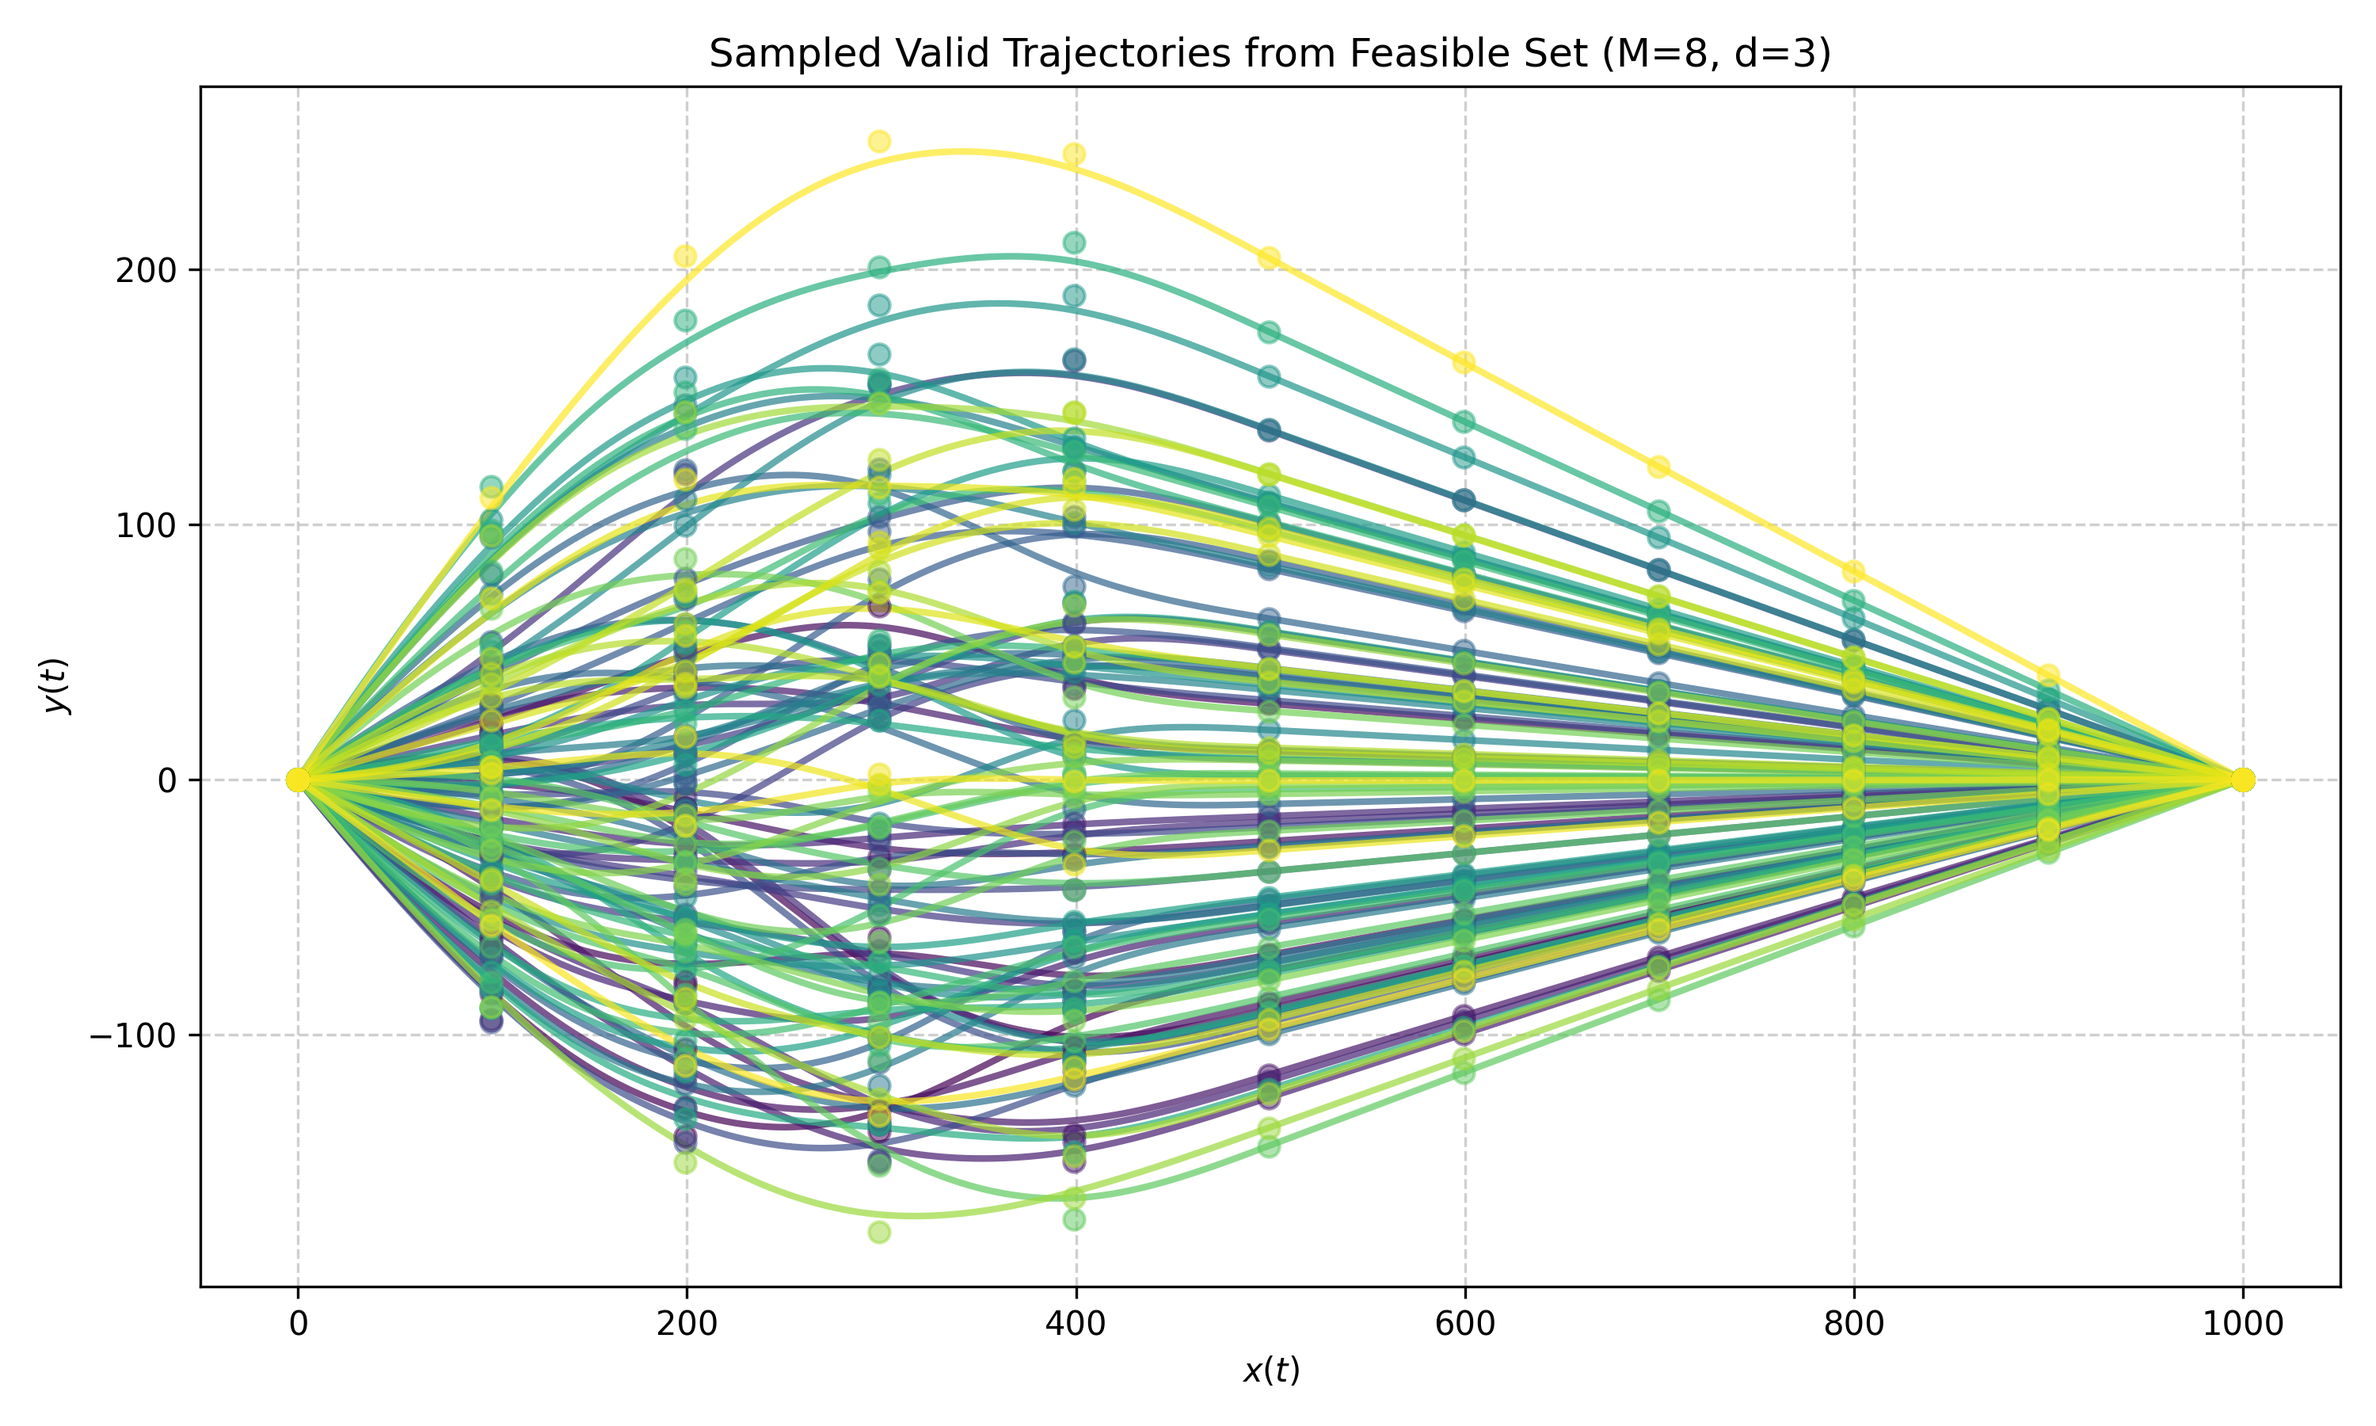
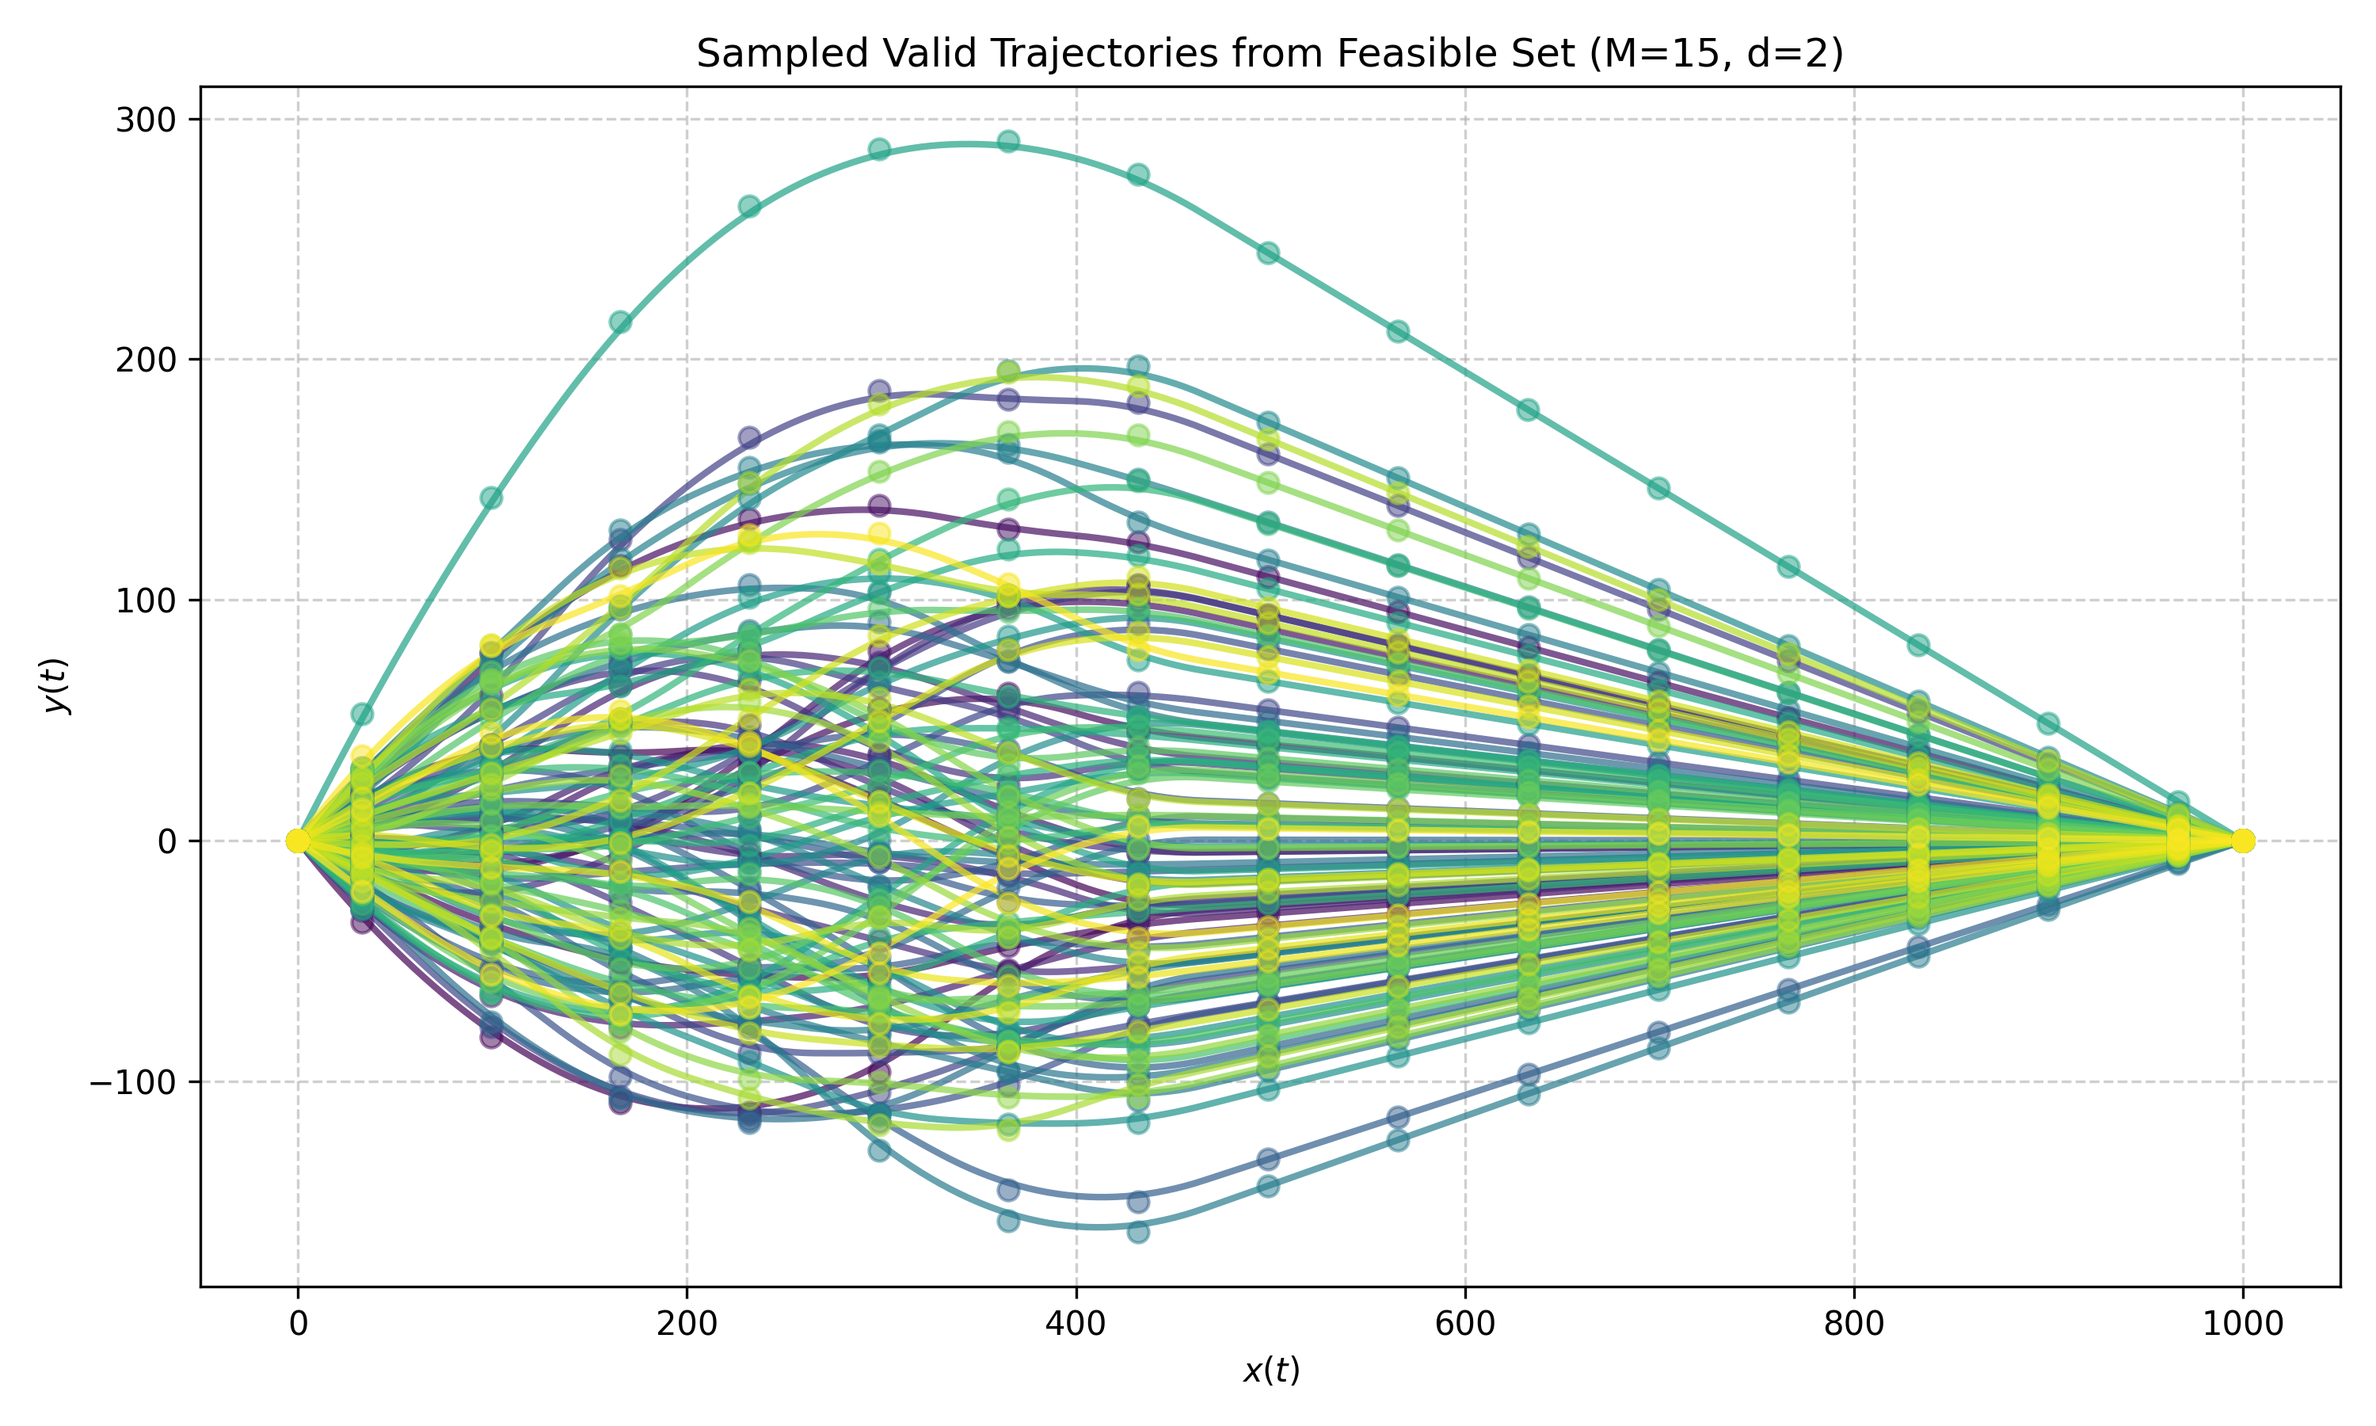
I cleaned up some code and changed the derivative to match a clamped uniform knot sequence.

diff --git a/convex_set.py b/convex_set.py
@@ -6,142 +6,17 @@ import sys
 sys.path.append('../bsplines_library/build')
 import bspline_module
 
-# -------------------------------------------------------------
-# 1. Analytical System Construction
-# -------------------------------------------------------------
-# def get_analytical_representation(M, d, a, epsilon, start, end):
-#     n = M + d
-#     N = n * n
-    
-#     # Equality Constraints: C[:, 0] == start, C[:, -1] == end
-#     A_eq = np.zeros((2 * n, N))
-#     b_eq = np.concatenate([start.ravel(), end.ravel()])
-    
-#     for row in range(n):
-#         A_eq[row, row * n] = 1.0                # First column C[:, 0]
-#         A_eq[n + row, row * n + (n - 1)] = 1.0  # Last column C[:, -1]
+def make_D_M_d(M, d):
+    first_last = [d/i for i in range(1,d)]
+    middle = [1]*(M-d+1)
+    diag_elements = first_last + middle + first_last[::-1]
+    D_bar = np.diag(diag_elements)
+    zero_row = np.zeros((1, M+d-1))
+    D_M_d = -np.block([[D_bar], [zero_row]]) + np.block([[zero_row], [D_bar]])
+    return D_M_d
 
-#     c0 = np.linalg.lstsq(A_eq, b_eq, rcond=None)[0]
-#     V = null_space(A_eq)
-    
-#     # Second-difference inequalities
-#     num_diff_cols = n - 2
-#     # num_diff_cols = n - 1
-#     # num_diff_cols = n - 3
-#     num_ineqs = n * num_diff_cols
-#     A_diff = np.zeros((num_ineqs, N))
-    
-#     idx = 0
-#     for i in range(n):
-#         for j in range(num_diff_cols):
-#             A_diff[idx, i * n + j] = 1.0
-#             A_diff[idx, i * n + (j + 1)] = -2.0
-#             A_diff[idx, i * n + (j + 2)] = 1.0
 
-#             # A_diff[idx, i * n + j] = 1.0
-#             # A_diff[idx, i * n + (j + 1)] = -1.0
-
-#             # A_diff[idx, i * n + j] = -1.0
-#             # A_diff[idx, i * n + (j + 1)] = 3.0
-#             # A_diff[idx, i * n + (j + 2)] = -3.0
-#             # A_diff[idx, i * n + (j + 3)] = 1.0
-            
-#             idx += 1
-
-#     b_diff = np.zeros(num_ineqs)
-#     for i in range(n):
-#         for j in range(num_diff_cols):
-#             # Apply larger bound if evaluating y-coordinate control points
-#             b_diff[i * num_diff_cols + j] = (
-#                 (a[0] - epsilon) if i < n // 2 else (a[1] - epsilon)
-#             )
-#     A_ub = np.vstack([A_diff, -A_diff])
-#     b_ub = np.concatenate([b_diff, b_diff])
-    
-#     A_tilde = A_ub @ V
-#     b_tilde = b_ub - A_ub @ c0
-    
-#     return c0, V, A_tilde, b_tilde
-
-# def get_analytical_representation(M, d, a, j_max, epsilon, start, end):
-#     n = M + d
-#     N = n * n
-    
-#     # -------------------------------------------------------------
-#     # 1. Equality Constraints: C[:, 0] == start, C[:, -1] == end
-#     # -------------------------------------------------------------
-#     A_eq = np.zeros((2 * n, N))
-#     b_eq = np.concatenate([start.ravel(), end.ravel()])
-    
-#     for row in range(n):
-#         A_eq[row, row * n] = 1.0                # First column C[:, 0]
-#         A_eq[n + row, row * n + (n - 1)] = 1.0  # Last column C[:, -1]
-
-#     c0 = np.linalg.lstsq(A_eq, b_eq, rcond=None)[0]
-#     V = null_space(A_eq)
-    
-#     # -------------------------------------------------------------
-#     # 2. Second-Difference Inequalities (Acceleration Limits)
-#     # -------------------------------------------------------------
-#     num_diff2_cols = n - 2
-#     num_ineqs2 = n * num_diff2_cols
-#     A_diff2 = np.zeros((num_ineqs2, N))
-    
-#     idx = 0
-#     for i in range(n):
-#         for j in range(num_diff2_cols):
-#             A_diff2[idx, i * n + j] = 1.0
-#             A_diff2[idx, i * n + (j + 1)] = -2.0
-#             A_diff2[idx, i * n + (j + 2)] = 1.0
-#             idx += 1
-
-#     b_diff2 = np.zeros(num_ineqs2)
-#     for i in range(n):
-#         for j in range(num_diff2_cols):
-#             b_diff2[i * num_diff2_cols + j] = (
-#                 (a[0] - epsilon) if i < n // 2 else (a[1] - epsilon)
-#             )
-
-#     # -------------------------------------------------------------
-#     # 3. Third-Difference Inequalities (Jerk Limits)
-#     # -------------------------------------------------------------
-#     num_diff3_cols = n - 3
-#     num_ineqs3 = n * num_diff3_cols
-#     A_diff3 = np.zeros((num_ineqs3, N))
-    
-#     idx = 0
-#     for i in range(n):
-#         for j in range(num_diff3_cols):
-#             A_diff3[idx, i * n + j] = -1.0
-#             A_diff3[idx, i * n + (j + 1)] = 3.0
-#             A_diff3[idx, i * n + (j + 2)] = -3.0
-#             A_diff3[idx, i * n + (j + 3)] = 1.0
-#             idx += 1
-
-#     b_diff3 = np.zeros(num_ineqs3)
-#     for i in range(n):
-#         for j in range(num_diff3_cols):
-#             b_diff3[i * num_diff3_cols + j] = (
-#                 (j_max[0] - epsilon) if i < n // 2 else (j_max[1] - epsilon)
-#             )
-
-#     # -------------------------------------------------------------
-#     # 4. Stack Acceleration and Jerk Constraints
-#     # -------------------------------------------------------------
-#     # Upper/lower bounds for acceleration and jerk combined
-#     A_diff = np.vstack([A_diff2, A_diff3])
-#     b_diff = np.concatenate([b_diff2, b_diff3])
-
-#     A_ub = np.vstack([A_diff, -A_diff])
-#     b_ub = np.concatenate([b_diff, b_diff])
-    
-#     # Transform to reduced basis coordinates (alpha space)
-#     A_tilde = A_ub @ V
-#     b_tilde = b_ub - A_ub @ c0
-    
-#     return c0, V, A_tilde, b_tilde
-
-def get_analytical_representation_2D(M, d, a, j_max, epsilon, start, end):
+def get_analytical_representation_2D(M, d, a, num_epsilon, epsilon, start, end):
     n = M + d
     N = 2 * n  # c_vec[:n] is X, c_vec[n:] is Y
     
@@ -167,77 +42,16 @@ def get_analytical_representation_2D(M, d, a, j_max, epsilon, start, end):
     # -------------------------------------------------------------
     num_diff2 = n - 2
     A_diff2 = np.zeros((2 * num_diff2, N))
-    b_diff2 = np.zeros(2 * num_diff2)
-    
-    # X acceleration (limit = a[0])
-    for j in range(num_diff2):
-        A_diff2[j, j:j+3] = [1.0, -2.0, 1.0]
-        b_diff2[j] = a[0] - epsilon
-
-    # Y acceleration (limit = a[1])
-    for j in range(num_diff2):
-        idx = num_diff2 + j
-        A_diff2[idx, n + j : n + j + 3] = [1.0, -2.0, 1.0]
-        b_diff2[idx] = a[1] - epsilon
-
-    # -------------------------------------------------------------
-    # 3. Jerk Constraints (Third Differences)
-    # -------------------------------------------------------------
-    num_diff3 = n - 3
-    A_diff3 = np.zeros((2 * num_diff3, N))
-    b_diff3 = np.zeros(2 * num_diff3)
-    
-    # X jerk (limit = j_max[0])
-    for j in range(num_diff3):
-        A_diff3[j, j:j+4] = [-1.0, 3.0, -3.0, 1.0]
-        b_diff3[j] = j_max[0] - epsilon
-
-    # Y jerk (limit = j_max[1])
-    for j in range(num_diff3):
-        idx = num_diff3 + j
-        A_diff3[idx, n + j : n + j + 4] = [-1.0, 3.0, -3.0, 1.0]
-        b_diff3[idx] = j_max[1] - epsilon
-
-    # -------------------------------------------------------------
-    # 4. Stack Constraints
-    # -------------------------------------------------------------
-    A_diff = np.vstack([A_diff2, A_diff3])
-    b_diff = np.concatenate([b_diff2, b_diff3])
-
-    A_ub = np.vstack([A_diff, -A_diff])
-    b_ub = np.concatenate([b_diff, b_diff])
-    
-    A_tilde = A_ub @ V
-    b_tilde = b_ub - A_ub @ c0
-    
-    return c0, V, A_tilde, b_tilde
-
-def get_analytical_representation_2D_no_jerk(M, d, a, num_epsilon, epsilon, start, end):
-    n = M + d
-    N = 2 * n  # c_vec[:n] is X, c_vec[n:] is Y
-    
-    # -------------------------------------------------------------
-    # 1. Equality Constraints: C[0, 0]=x_start, C[0, -1]=x_end, etc.
-    # -------------------------------------------------------------
-    A_eq = np.zeros((4, N))
-    b_eq = np.array([start[0], end[0], start[1], end[1]])
-    
-    # X start & end (indices 0 and n-1)
-    A_eq[0, 0] = 1.0          
-    A_eq[1, n - 1] = 1.0      
-    
-    # Y start & end (indices n and 2n-1)
-    A_eq[2, n] = 1.0          
-    A_eq[3, 2 * n - 1] = 1.0  
-
-    c0 = np.linalg.lstsq(A_eq, b_eq, rcond=None)[0]
-    V = null_space(A_eq)
-    
-    # -------------------------------------------------------------
-    # 2. Acceleration Constraints (Second Differences)
-    # -------------------------------------------------------------
-    num_diff2 = n - 2
-    A_diff2 = np.zeros((2 * num_diff2, N))
+    print(f"A_diff2 shape {A_diff2.shape}")
+    # Making it for uniform clamped control points
+    D_M_d = make_D_M_d(M, d)
+    D_M_d1 = make_D_M_d(M, d-1)
+    D_tmp = D_M_d @ D_M_d1
+    D_X = D_tmp.T
+    D_Y = D_tmp.T
+    D = np.block([[D_X, np.zeros((num_diff2, n))],
+                  [np.zeros((num_diff2, n)), D_Y],])  
+    print(f"D shape {D.shape}")
     b_diff2 = np.zeros(2 * num_diff2)
     
     # X acceleration (limit = a[0])
@@ -261,13 +75,17 @@ def get_analytical_representation_2D_no_jerk(M, d, a, num_epsilon, epsilon, star
     # 4. Stack Constraints
     # -------------------------------------------------------------
 
-    A_ub = np.vstack([A_diff2, -A_diff2])
+    # A_ub = np.vstack([A_diff2, -A_diff2])
+    A_ub = np.vstack([D, -D])
     b_ub = np.concatenate([b_diff2, b_diff2])
-    
+
+    print(f"A_ub shape {A_ub.shape},V shape {V.shape}, b_ub shape {b_ub.shape}")
     A_tilde = A_ub @ V
     b_tilde = b_ub - A_ub @ c0
     
     return c0, V, A_tilde, b_tilde
+
+
 # -------------------------------------------------------------
 # 2. Sampler: Finds random valid C matrices within the polytope
 # -------------------------------------------------------------
@@ -373,68 +191,6 @@ def sample_diverse_C_2D(c0, V, A_tilde, b_tilde, n, seed=None):
         
     return C.value
 
-def sample_hit_and_run(c0, V, A_tilde, b_tilde, n, num_samples=30, burn_in=200, seed=None):
-    if seed is not None:
-        np.random.seed(seed)
-        
-    k = V.shape[1]
-    
-    # 1. Find an initial strictly interior point using Chebyshev center
-    alpha_var = cp.Variable(k)
-    r = cp.Variable()
-    
-    # Normalize rows of A_tilde for accurate ball radius r
-    norms = np.linalg.norm(A_tilde, axis=1, keepdims=True)
-    norms[norms == 0] = 1.0
-    A_norm = A_tilde / norms
-    
-    prob = cp.Problem(cp.Maximize(r), [A_norm @ alpha_var + r <= b_tilde / norms.ravel()])
-    prob.solve()
-    
-    current_alpha = alpha_var.value.copy()
-    
-    # 2. Burn-in steps to lose initial bias
-    for _ in range(burn_in):
-        direction = np.random.randn(k)
-        direction /= np.linalg.norm(direction)
-        
-        # Calculate line-search step limits: A_tilde (alpha + t * dir) <= b_tilde
-        Ad = A_tilde @ direction
-        slack = b_tilde - A_tilde @ current_alpha
-        
-        pos_mask = Ad > 1e-9
-        neg_mask = Ad < -1e-9
-        
-        t_max = np.min(slack[pos_mask] / Ad[pos_mask]) if np.any(pos_mask) else 100.0
-        t_min = np.max(slack[neg_mask] / Ad[neg_mask]) if np.any(neg_mask) else -100.0
-        
-        if t_max > t_min:
-            t = np.random.uniform(t_min, t_max)
-            current_alpha += t * direction
-
-    # 3. Collect diverse interior samples
-    trajectories = []
-    for _ in range(num_samples):
-        direction = np.random.randn(k)
-        direction /= np.linalg.norm(direction)
-        
-        Ad = A_tilde @ direction
-        slack = b_tilde - A_tilde @ current_alpha
-        
-        pos_mask = Ad > 1e-9
-        neg_mask = Ad < -1e-9
-        
-        t_max = np.min(slack[pos_mask] / Ad[pos_mask]) if np.any(pos_mask) else 100.0
-        t_min = np.max(slack[neg_mask] / Ad[neg_mask]) if np.any(neg_mask) else -100.0
-        
-        if t_max > t_min:
-            t = np.random.uniform(t_min, t_max)
-            current_alpha += t * direction
-            
-        c_vec = c0 + V @ current_alpha
-        trajectories.append(np.vstack([c_vec[:n], c_vec[n:]]))
-        
-    return trajectories
 
 def sample_convex_combination(c0, V, A_tilde, b_tilde, n, num_vertices=6, seed=None):
     if seed is not None:
@@ -498,24 +254,17 @@ def generate_b_spline_trajectory(C, M, d, num_points=200):
 # -------------------------------------------------------------
 # 4. Plotting Setup
 # -------------------------------------------------------------
-M, d = 8, 3
+M, d = 15, 2
 n = M + d
-a = np.array([0.2, 50.])
+a = np.array([0.1, 25.])
 j_max = np.array([1, 6])
 epsilon = 0.01
-num_epsilon = 5  # Number of initial control points with tighter constraints
-
-
-# start_vec = np.ones(n) * 1000
-# start_vec[1:] = 0.0  # Start at 0 for the first state
-# end_vec = np.zeros(n)
+num_epsilon = 8  # Number of initial control points with tighter constraints
 
 start_vec = np.array([1000.0, 0.0])
 end_vec = np.array([0.0, 0.0])
 
-
-# c0, V, A_tilde, b_tilde = get_analytical_representation_2D(M, d, a, j_max, epsilon, start_vec, end_vec)
-c0, V, A_tilde, b_tilde = get_analytical_representation_2D_no_jerk(M, d, a, num_epsilon, epsilon, start_vec, end_vec)
+c0, V, A_tilde, b_tilde = get_analytical_representation_2D(M, d, a, num_epsilon, epsilon, start_vec, end_vec)
 
 # Generate several distinct valid C matrices
 num_trajectories = 100
@@ -523,14 +272,12 @@ plt.figure(figsize=(10, 6))
 
 colors = plt.cm.viridis(np.linspace(0, 1, num_trajectories))
 
-# control_matrices = sample_hit_and_run(c0, V, A_tilde, b_tilde, n, num_samples=num_trajectories, burn_in=200, seed=42)
 
 for idx in range(num_trajectories):
     # C_sample = sample_valid_C(c0, V, A_tilde, b_tilde, n, seed=idx * 10)
     # C_sample = sample_diverse_C(c0, V, A_tilde, b_tilde, n, seed=idx * 10)
     C_sample = sample_convex_combination(c0, V, A_tilde, b_tilde, n, num_vertices=6, seed=idx * 10)
     # C_sample = sample_diverse_C_2D(c0, V, A_tilde, b_tilde, n, seed=idx * 10)
-    # C_sample = sample_hit_and_run(c0, V, A_tilde, b_tilde, n, num_samples=1, burn_in=200, seed=idx * 10)[0]
     # C_sample = control_matrices[idx]
     t, traj = generate_b_spline_trajectory(C_sample, M, d)
     
